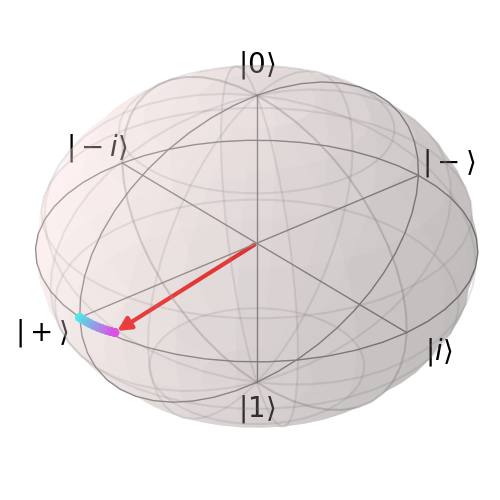
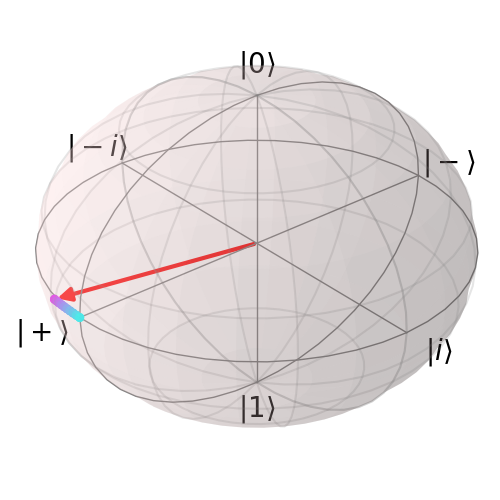
te

Changed region(s): [[0.21, 0.48, 0.51, 0.6], [0.15, 0.6, 0.33, 0.69], [0.09, 0.57, 0.21, 0.63]]

diff --git a/anim.py b/anim.py
@@ -43,7 +43,7 @@ def animate_bloch(states, duration=0.05, save_all=False):
     imageio.mimsave('bloch_anim.gif', images, duration=duration)
 
 def farhi_gutman(x,E,t):
-    return (np.exp(E*-1j*t)*((x*cos(E*x*t)- 1j*sin(E*x*t))*basis(2,0) + x*cos(E*x*t)*basis(2,1)))
+    return (np.exp(E*-1j*t)*((x*cos(E*x*t)- 1j*sin(E*x*t))*basis(2,1) + x*cos(E*x*t)*basis(2,0)))
 
 def scale_t(x,E,t):
     return t * pi * (1/x) * (1/(2*E*10))
